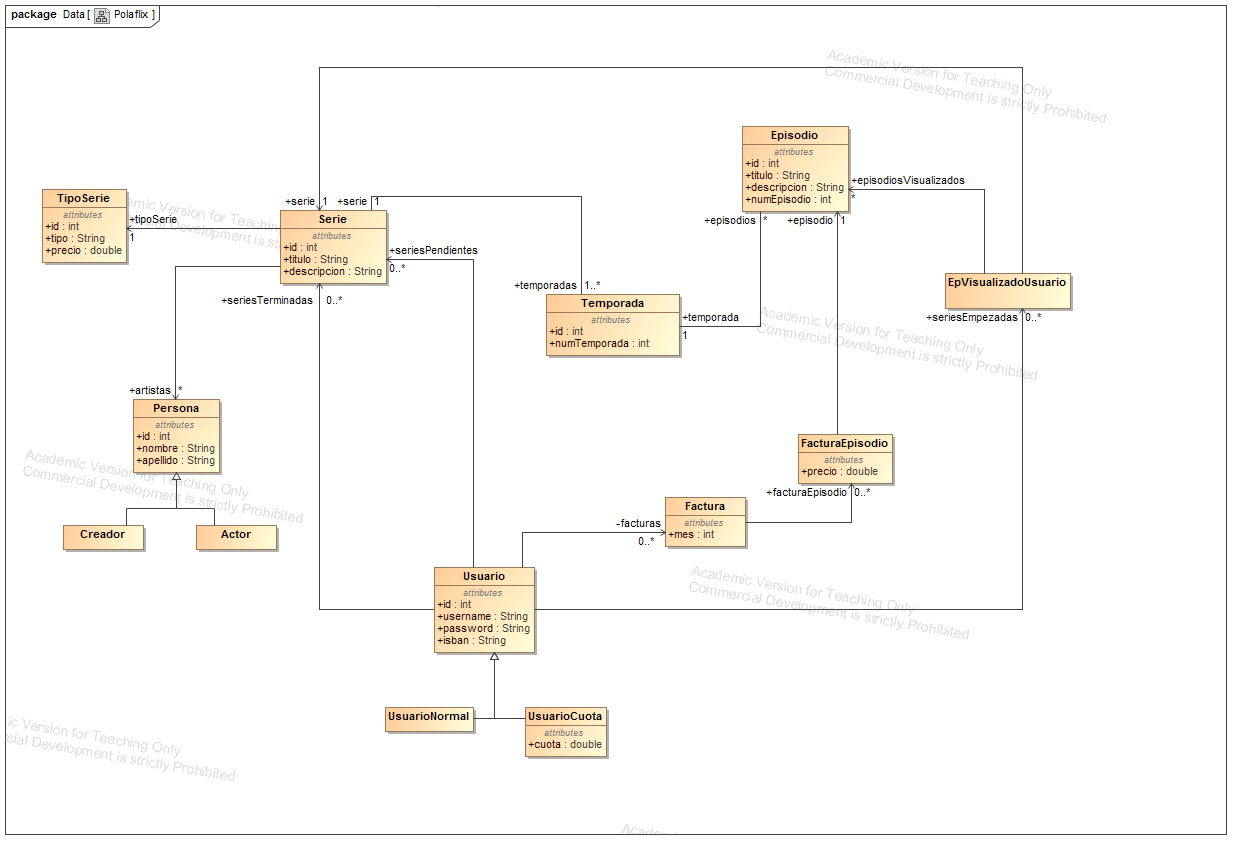
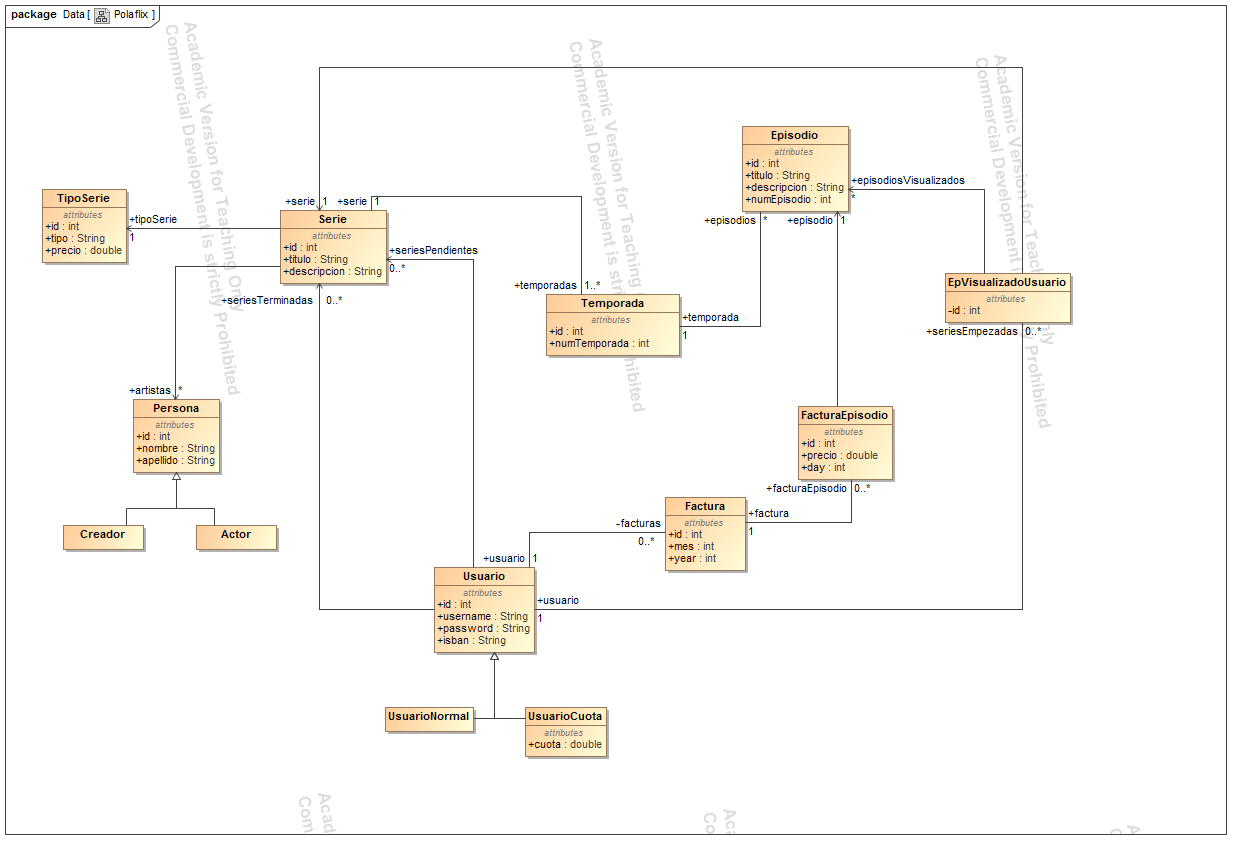
Finished 21/03/2017 session

diff --git a/src/main/java/es/unican/polaflix/domain/Usuario.java b/src/main/java/es/unican/polaflix/domain/Usuario.java
@@ -1,18 +1,28 @@
-package es.unican.domain;
+package es.unican.polaflix.domain;
 
 import java.util.HashSet;
 import java.util.Set;
 import java.util.TreeSet;
+import javax.persistence.*;
 
-public class Usuario {
+@Entity
+@Inheritance(strategy = InheritanceType.SINGLE_TABLE)
+@DiscriminatorColumn(name = "tipoUsuario", discriminatorType = DiscriminatorType.STRING)
+public abstract class Usuario {
 
+	@Id
+	@GeneratedValue
 	private int id;
 	private String username;
 	private String password;
 	private String isban;
+	@ManyToMany
 	private Set<Serie> seriesTerminadas;
+	@ManyToMany
 	private Set<Serie> seriesPendientes;
+	@OneToMany(mappedBy="usuario")
 	private Set<Factura> facturas;
+	@OneToMany(mappedBy="usuario")
 	private Set<EpVisualizadoUsuario> seriesEmpezadas;
 	
 	public Usuario (String username, String password, String isban){

diff --git a/src/main/java/es/unican/polaflix/domain/EpVisualizadoUsuario.java b/src/main/java/es/unican/polaflix/domain/EpVisualizadoUsuario.java
@@ -1,13 +1,24 @@
-package es.unican.domain;
+package es.unican.polaflix.domain;
 
 import java.util.HashSet;
 import java.util.Set;
+import javax.persistence.*;
 
+@Entity
 public class EpVisualizadoUsuario {
 
+	@Id
+	@GeneratedValue
 	private int id;
+	@ManyToOne
 	private Serie serie;
+	@ManyToMany
+	@JoinTable(name="episodios_visualizados",
+		      joinColumns=@JoinColumn(name="ep_visualizado_usuario_id", referencedColumnName="id"),
+		      inverseJoinColumns=@JoinColumn(name="episodio_id", referencedColumnName="id"))
 	private Set<Episodio> episodiosVisualizados;
+	@ManyToOne
+	@JoinColumn(name="usuario_id")
 	private Usuario usuario;
 	
 	public EpVisualizadoUsuario(int id, Serie serie){

diff --git a/src/main/java/es/unican/polaflix/domain/Factura.java b/src/main/java/es/unican/polaflix/domain/Factura.java
@@ -1,14 +1,22 @@
-package es.unican.domain;
+package es.unican.polaflix.domain;
 
 import java.util.HashSet;
 import java.util.Set;
 
+import javax.persistence.*;
+
+@Entity
 public class Factura implements Comparable<Factura>{
 	
+	@Id
+	@GeneratedValue
 	private int id;
 	private int mes;
 	private int year;
+	@ManyToOne
+	@JoinColumn(name = "usuario_id")
 	private Usuario usuario;
+	@OneToMany(mappedBy="factura")
 	private Set<FacturaEpisodio> episodios;
 	
 	public Factura(int mes, Usuario usuario){

diff --git a/src/main/java/es/unican/polaflix/domain/Temporada.java b/src/main/java/es/unican/polaflix/domain/Temporada.java
@@ -1,13 +1,20 @@
-package es.unican.domain;
+package es.unican.polaflix.domain;
 
 import java.util.Set;
 import java.util.TreeSet;
+import javax.persistence.*;
 
+@Entity
 public class Temporada implements Comparable<Temporada>{
 
+	@Id
+	@GeneratedValue
 	private int id;
+	@ManyToOne
+	@JoinColumn(name = "serie_id")
 	private Serie serie;
 	private int numTemporada;
+	@OneToMany(mappedBy ="temporada")
 	private Set<Episodio> episodios;
 	
 	public Temporada(Serie serie, int numTemporada){

diff --git a/src/main/java/es/unican/polaflix/domain/TipoSerie.java b/src/main/java/es/unican/polaflix/domain/TipoSerie.java
@@ -1,8 +1,13 @@
-package es.unican.domain;
+package es.unican.polaflix.domain;
 
+import javax.persistence.*;
+
+@Entity
 public class TipoSerie {
 
-	private String id;
+	@Id
+	@GeneratedValue
+	private int id;
 	private String tipo;
 	private double precio;
 	
@@ -11,11 +16,11 @@ public class TipoSerie {
 		this.precio = precio;
 	}
 
-	public String getId() {
+	public int getId() {
 		return id;
 	}
 
-	public void setId(String id) {
+	public void setId(int id) {
 		this.id = id;
 	}
 

diff --git a/src/main/java/es/unican/polaflix/domain/Episodio.java b/src/main/java/es/unican/polaflix/domain/Episodio.java
@@ -1,11 +1,18 @@
-package es.unican.domain;
+package es.unican.polaflix.domain;
 
+import javax.persistence.*;
+
+@Entity
 public class Episodio implements Comparable<Episodio>{
 
+	@Id
+	@GeneratedValue
 	private int id;
 	private String titulo;
 	private String descripcion;
 	private int numEpisodio;
+	@ManyToOne
+	@JoinColumn(name = "temporada_id")
 	private Temporada temporada;
 	
 	public Episodio(int id, String titulo, String descripcion, int numEpisodio){

diff --git a/src/main/java/es/unican/polaflix/domain/Serie.java b/src/main/java/es/unican/polaflix/domain/Serie.java
@@ -1,13 +1,19 @@
-package es.unican.domain;
+package es.unican.polaflix.domain;
 
 import java.util.Set;
+import javax.persistence.*;
 
+@Entity
 public class Serie {
 
+	@Id
+	@GeneratedValue
 	private int id;
 	private String titulo;
 	private String descripcion;
+	@OneToMany(mappedBy ="serie")
 	private Set<Temporada> temporadas;
+	@ManyToOne
 	private TipoSerie tipoSerie;
 	
 	public Serie (String titulo, String descripcion, TipoSerie tipoSerie){

diff --git a/src/main/java/es/unican/polaflix/domain/FacturaEpisodio.java b/src/main/java/es/unican/polaflix/domain/FacturaEpisodio.java
@@ -1,10 +1,19 @@
-package es.unican.domain;
+package es.unican.polaflix.domain;
 
+import javax.persistence.*;
+
+@Entity
 public class FacturaEpisodio implements Comparable<FacturaEpisodio>{
 
+	@Id
+	@GeneratedValue
 	private int id;
 	private double precio;
+	@OneToOne
+	@JoinColumn(name="episodio_id")
 	private Episodio episodio;
+	@ManyToOne
+	@JoinColumn(name="factura_id")
 	private Factura factura;
 	private int day;
 	

diff --git a/src/main/java/es/unican/polaflix/domain/Persona.java b/src/main/java/es/unican/polaflix/domain/Persona.java
@@ -1,7 +1,13 @@
-package es.unican.domain;
+package es.unican.polaflix.domain;
 
-public class Persona {
+import javax.persistence.*;
 
+@Entity
+@Inheritance(strategy = InheritanceType.SINGLE_TABLE)
+public abstract class Persona {
+
+	@Id
+	@GeneratedValue
 	private int id;
 	private String nombre;
 	private String apellido;

diff --git a/src/main/java/es/unican/polaflix/domain/UsuarioNormal.java b/src/main/java/es/unican/polaflix/domain/UsuarioNormal.java
@@ -1,5 +1,9 @@
-package es.unican.domain;
+package es.unican.polaflix.domain;
 
+import javax.persistence.*;
+
+@Entity
+@DiscriminatorValue("NORMAL")
 public class UsuarioNormal extends Usuario{
 
 	public UsuarioNormal(String username, String password, String isban) {

diff --git a/src/main/java/es/unican/polaflix/domain/UsuarioCuota.java b/src/main/java/es/unican/polaflix/domain/UsuarioCuota.java
@@ -1,5 +1,9 @@
-package es.unican.domain;
+package es.unican.polaflix.domain;
 
+import javax.persistence.*;
+
+@Entity
+@DiscriminatorValue("CUOTA")
 public class UsuarioCuota extends Usuario{
 	
 	private double cuota;

diff --git a/src/main/java/es/unican/polaflix/domain/Creador.java b/src/main/java/es/unican/polaflix/domain/Creador.java
@@ -1,5 +1,8 @@
-package es.unican.domain;
+package es.unican.polaflix.domain;
 
+import javax.persistence.Entity;
+
+@Entity
 public class Creador extends Persona{
 
 	public Creador(String nombre, String apellido) {
